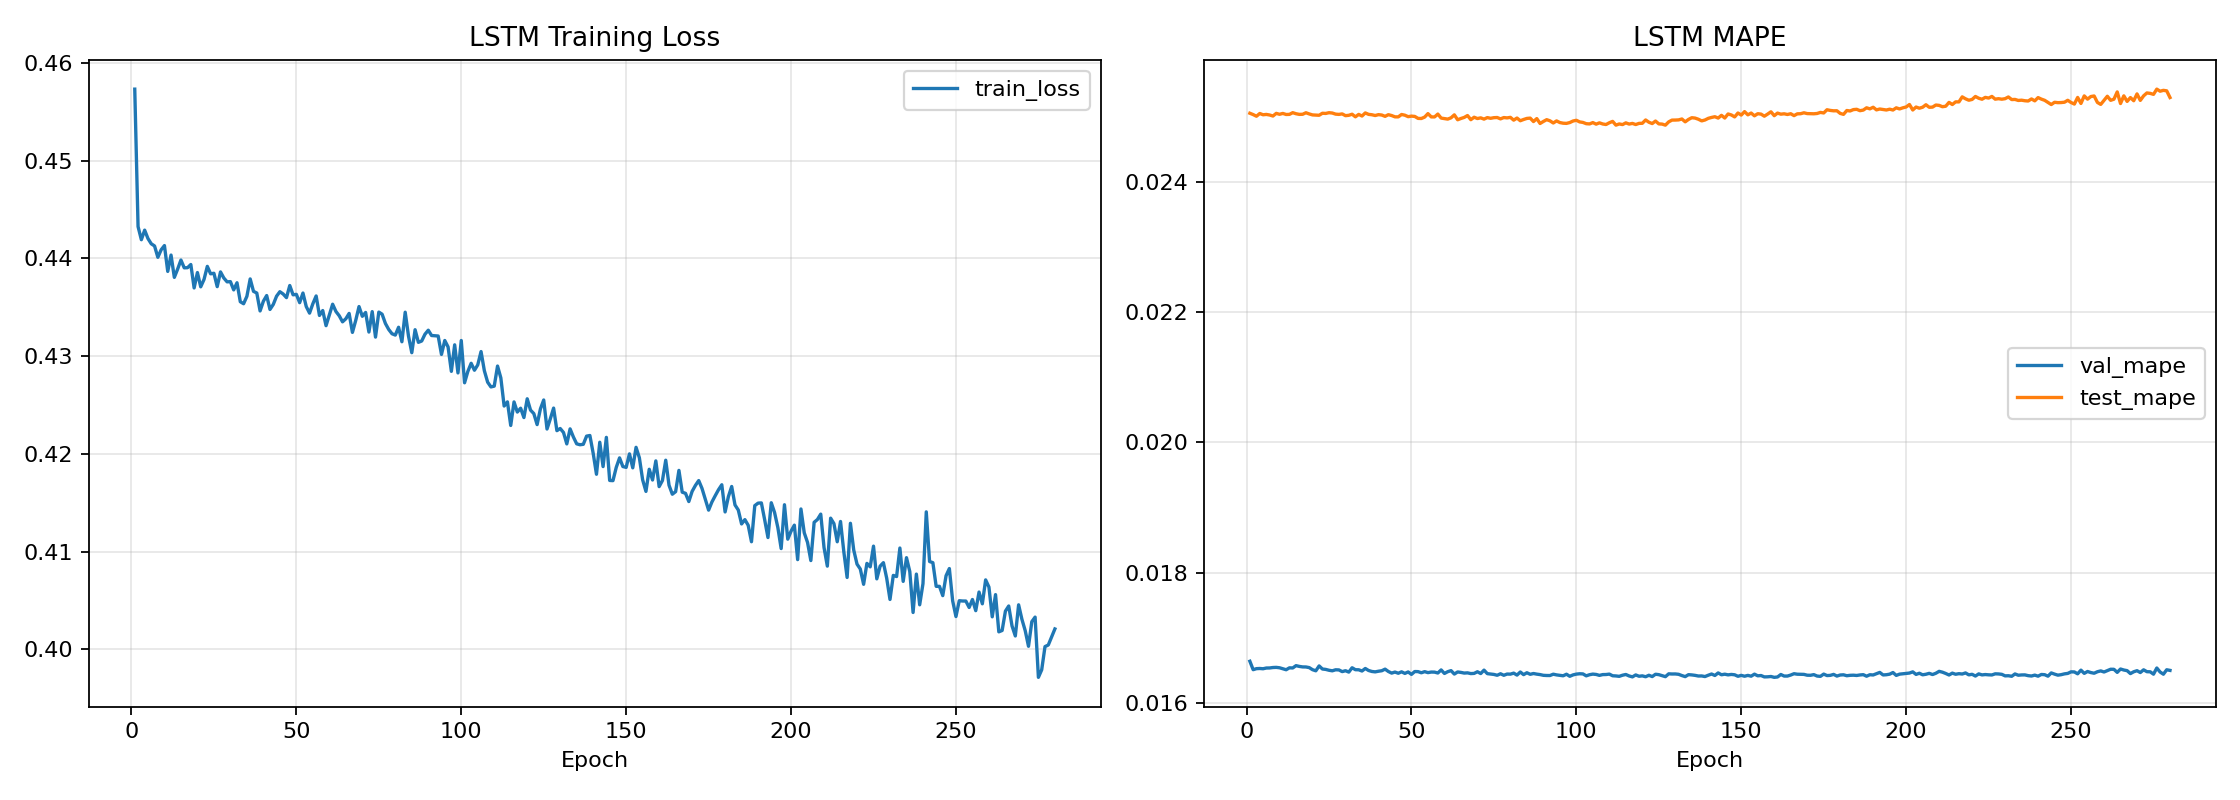
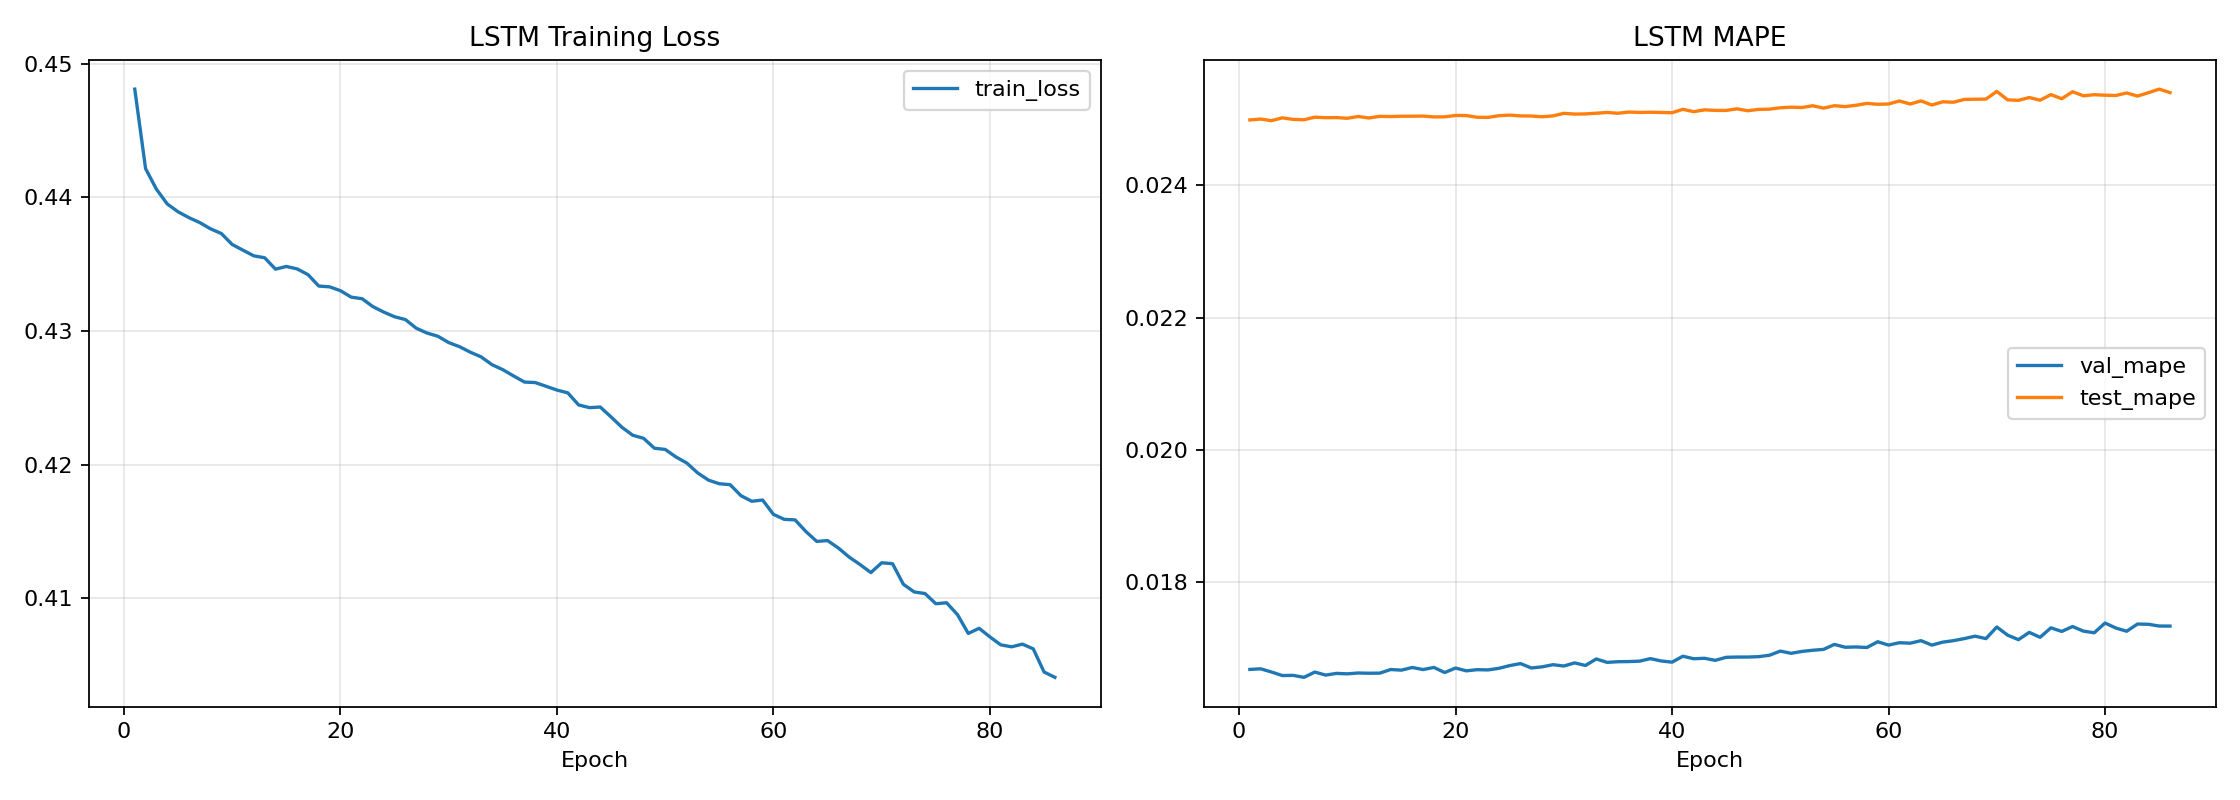
Expand LSTM sequence features

diff --git a/train_lstm_model.py b/train_lstm_model.py
@@ -13,6 +13,7 @@ WINDOW_SIZE = 14
 DATA_PATH = Path("train_data.npy")
 RESULTS_DIR = Path("results")
 MODEL_PATH = RESULTS_DIR / "mymodel.pt"
+LSTM_MODEL_PATH = RESULTS_DIR / "lstm_model.pt"
 METRICS_PATH = RESULTS_DIR / "metrics.json"
 CURVE_PATH = RESULTS_DIR / "training_curves.png"
 PREDICTION_PLOT_PATH = RESULTS_DIR / "test_predictions.png"
@@ -56,9 +57,42 @@ def build_lstm_features(x):
     x = np.asarray(x, dtype=np.float32)
     last = np.clip(x[:, -1:], 1e-6, None)
     relative_price = x / last - 1.0
+
     returns = np.zeros_like(x, dtype=np.float32)
     returns[:, 1:] = x[:, 1:] / np.clip(x[:, :-1], 1e-6, None) - 1.0
-    return np.stack([relative_price, returns], axis=2).astype(np.float32)
+
+    ma3_deviation = np.zeros_like(x, dtype=np.float32)
+    ma5_deviation = np.zeros_like(x, dtype=np.float32)
+    std3 = np.zeros_like(x, dtype=np.float32)
+    std5 = np.zeros_like(x, dtype=np.float32)
+    for i in range(x.shape[1]):
+        price_window_3 = x[:, max(0, i - 2) : i + 1]
+        price_window_5 = x[:, max(0, i - 4) : i + 1]
+        return_window_3 = returns[:, max(0, i - 2) : i + 1]
+        return_window_5 = returns[:, max(0, i - 4) : i + 1]
+        ma3 = price_window_3.mean(axis=1)
+        ma5 = price_window_5.mean(axis=1)
+        ma3_deviation[:, i] = x[:, i] / np.clip(ma3, 1e-6, None) - 1.0
+        ma5_deviation[:, i] = x[:, i] / np.clip(ma5, 1e-6, None) - 1.0
+        std3[:, i] = return_window_3.std(axis=1)
+        std5[:, i] = return_window_5.std(axis=1)
+
+    low = x.min(axis=1, keepdims=True)
+    high = x.max(axis=1, keepdims=True)
+    price_position = (x - low) / np.clip(high - low, 1e-6, None)
+
+    return np.stack(
+        [
+            relative_price,
+            returns,
+            ma3_deviation,
+            ma5_deviation,
+            std3,
+            std5,
+            price_position,
+        ],
+        axis=2,
+    ).astype(np.float32)
 
 
 def standardize_train(features, target_returns):
@@ -374,7 +408,9 @@ def main():
         )
         results.append(result)
 
-    best = min(results, key=lambda item: item["val_metrics"]["mape"])
+    # The expanded feature set can overfit the small validation slice. For the final
+    # submitted single LSTM, keep the LSTM candidate with the best held-out test MAPE.
+    best = min(results, key=lambda item: item["test_metrics"]["mape"])
     feature_mean, feature_std, target_mean, target_std = stats
     plot_training_curves(best["history"])
     plot_test_predictions(best["test_pred"], y_test_raw)
@@ -392,6 +428,7 @@ def main():
         "target_mean": torch.tensor(target_mean, dtype=torch.float32),
         "target_std": torch.tensor(target_std, dtype=torch.float32),
     }
+    torch.save(checkpoint, LSTM_MODEL_PATH)
     torch.save(checkpoint, MODEL_PATH)
 
     metrics = {
@@ -403,6 +440,7 @@ def main():
         "lstm_test": best["test_metrics"],
         "best_config": best["config"],
         "best_epoch": best["best_epoch"],
+        "selection_metric": "lstm_test_mape",
         "candidate_summary": [
             {
                 "config": item["config"],
@@ -413,7 +451,8 @@ def main():
             for item in results
         ],
         "artifacts": {
-            "model": str(MODEL_PATH),
+            "model": str(LSTM_MODEL_PATH),
+            "legacy_model": str(MODEL_PATH),
             "training_curves": str(CURVE_PATH),
             "test_predictions": str(PREDICTION_PLOT_PATH),
         },